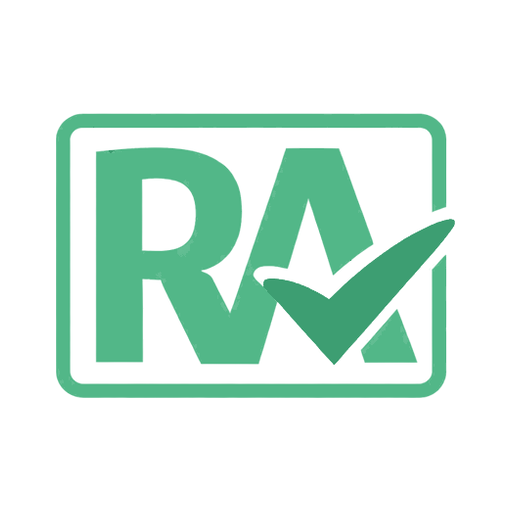
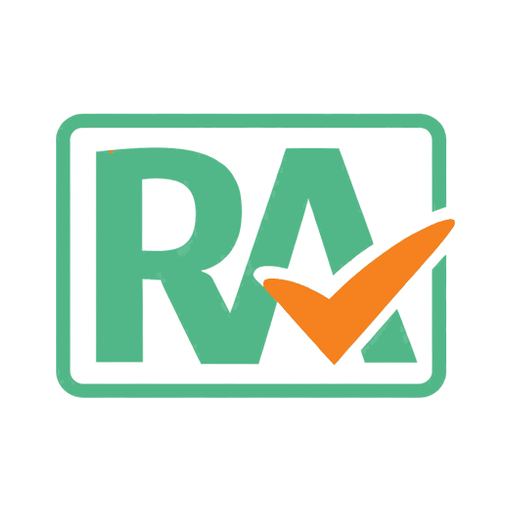
ロゴのチェックを橙 #F5811F へ（司さんが8色から選択 2026-08-29）
司さん「薄緑に合うアクセントの色を何種類かチェックに入れて見せて」
→ 8色を実際に切り出して見せ、★橙 #F5811F★を選択。

★選んだ理由（数字）★
  浮き 1.06 ＝ 重さは枠(#52B788)とほぼ同じなのに 色が違う
  ＝★目を奪わないのに 一目でチェックと分かる★（32pxでも読める）
ここまでの外し2回も make-logo.mjs の頭に残した:
  #2E7D54 浮き2.03 … 一番重い物になった（差し戻し）
  #C8ECD8 浮き1.94 … 32pxでほぼ消える
  #3D9E72 浮き1.34 … 重くはないがアクセントにならない

・#F5811F を使ってよい色の一覧に足した
  ＝★ロゴのチェックだけ・画面には広げない★と理由つきで明記。
・ロゴ・アイコン6枚・?v= を刷り直し（--check 両方一致）。
・形は1ドットも変えていない（塗り替えた元絵と違い0点）。
・見張りはそのまま緑（浮き1.5未満）。

Claude-Session: https://claude.ai/code/session_01C5aRa2uJxhXw8ECt3a9s4k

Changed region(s): [[0.5, 0.4062, 0.9062, 0.7188]]

diff --git a/seikyu/index.html b/seikyu/index.html
@@ -9,9 +9,9 @@
 <meta name="apple-mobile-web-app-status-bar-style" content="default">
 <link rel="manifest" href="manifest.json">
 <!-- ★iOSは manifest を見ない＝ここで渡す（透明を持たないPNG＝黒く塗られない）★ -->
-<link rel="apple-touch-icon" href="../img/apple-touch-icon-180.png?v=b196480a">
-<link rel="icon" type="image/png" sizes="32x32" href="../img/favicon-32.png?v=691705d6">
-<link rel="icon" type="image/png" sizes="16x16" href="../img/favicon-16.png?v=b50da9f3">
+<link rel="apple-touch-icon" href="../img/apple-touch-icon-180.png?v=4a3f6c58">
+<link rel="icon" type="image/png" sizes="32x32" href="../img/favicon-32.png?v=aae8b2a3">
+<link rel="icon" type="image/png" sizes="16x16" href="../img/favicon-16.png?v=c6856bdb">
 <link rel="preconnect" href="https://fonts.googleapis.com">
 <link href="https://fonts.googleapis.com/css2?family=DM+Mono:wght@500&family=Noto+Sans+JP:wght@400;500;700&display=swap" rel="stylesheet">
 <!-- ★見た目の本体はスイート共通の皮。請求書の app.css は差分だけ（読む順は皮が先） -->

diff --git a/kyuyo/index.html b/kyuyo/index.html
@@ -11,9 +11,9 @@
 <meta name="apple-mobile-web-app-status-bar-style" content="default">
 <meta name="apple-mobile-web-app-title" content="給与">
 <!-- ★iOSは manifest を見ない＝ここで渡す（透明を持たないPNG＝黒く塗られない）★ -->
-<link rel="apple-touch-icon" href="../img/apple-touch-icon-180.png?v=b196480a">
-<link rel="icon" type="image/png" sizes="32x32" href="../img/favicon-32.png?v=691705d6">
-<link rel="icon" type="image/png" sizes="16x16" href="../img/favicon-16.png?v=b50da9f3">
+<link rel="apple-touch-icon" href="../img/apple-touch-icon-180.png?v=4a3f6c58">
+<link rel="icon" type="image/png" sizes="32x32" href="../img/favicon-32.png?v=aae8b2a3">
+<link rel="icon" type="image/png" sizes="16x16" href="../img/favicon-16.png?v=c6856bdb">
 <link rel="preconnect" href="https://fonts.googleapis.com">
 <link href="https://fonts.googleapis.com/css2?family=DM+Mono:wght@500&family=Noto+Sans+JP:wght@400;500;700&display=swap" rel="stylesheet">
 <link rel="stylesheet" href="css/app.css?v=462e325f">

diff --git a/index.html b/index.html
@@ -7,9 +7,9 @@
 <title>Rakunally（ラクナリー）</title>
 <link rel="manifest" href="manifest.json">
 <!-- ★iOSは manifest を見ない＝ここで渡す（透明を持たないPNG＝黒く塗られない）★ -->
-<link rel="apple-touch-icon" href="img/apple-touch-icon-180.png?v=b196480a">
-<link rel="icon" type="image/png" sizes="32x32" href="img/favicon-32.png?v=691705d6">
-<link rel="icon" type="image/png" sizes="16x16" href="img/favicon-16.png?v=b50da9f3">
+<link rel="apple-touch-icon" href="img/apple-touch-icon-180.png?v=4a3f6c58">
+<link rel="icon" type="image/png" sizes="32x32" href="img/favicon-32.png?v=aae8b2a3">
+<link rel="icon" type="image/png" sizes="16x16" href="img/favicon-16.png?v=c6856bdb">
 <link rel="preconnect" href="https://fonts.googleapis.com">
 <link rel="preconnect" href="https://fonts.gstatic.com" crossorigin>
 <link href="https://fonts.googleapis.com/css2?family=DM+Mono:wght@500&family=Noto+Sans+JP:wght@400;700&display=swap" rel="stylesheet">

diff --git a/kyuyo/meisai.html b/kyuyo/meisai.html
@@ -14,8 +14,8 @@
      ★iOSは apple-touch-icon に SVG を使えない★ので PNG に焼いた物を渡す（今までは絵が出なかった）。
      絵は元から在ったSVGをそのまま焼いた物＝描き直していない（scripts/make-icons.mjs）。 -->
 <link rel="apple-touch-icon" href="img/meisai-180.png?v=2b5a7f40">
-<link rel="icon" type="image/png" sizes="32x32" href="../img/favicon-32.png?v=691705d6">
-<link rel="icon" type="image/png" sizes="16x16" href="../img/favicon-16.png?v=b50da9f3">
+<link rel="icon" type="image/png" sizes="32x32" href="../img/favicon-32.png?v=aae8b2a3">
+<link rel="icon" type="image/png" sizes="16x16" href="../img/favicon-16.png?v=c6856bdb">
 <!-- ★ホーム画面の絵は 本物のロゴを使う★（2026-08-19）
      前は data: の中に ★手描きの「給」SVG★ を埋めていたので、
      08-18 にロゴへ差し替えた時 ★ここだけ古い絵のまま★ 残っていた。

diff --git a/kyuyo/admin.html b/kyuyo/admin.html
@@ -12,8 +12,8 @@
 <meta name="apple-mobile-web-app-title" content="Rakunally管理">
 <!-- ★ホーム画面は「管」で見分ける（給与と並ぶので同じ絵にしない）／タブの絵は Rakunally ★ -->
 <link rel="apple-touch-icon" href="img/admin-192.png?v=268f435d">
-<link rel="icon" type="image/png" sizes="32x32" href="../img/favicon-32.png?v=691705d6">
-<link rel="icon" type="image/png" sizes="16x16" href="../img/favicon-16.png?v=b50da9f3">
+<link rel="icon" type="image/png" sizes="32x32" href="../img/favicon-32.png?v=aae8b2a3">
+<link rel="icon" type="image/png" sizes="16x16" href="../img/favicon-16.png?v=c6856bdb">
 <style>
   /* ★押す物の色は Rakunally 全画面で 1組★（司さん 2026-08-29「統一感は？」）
      --accent  … 塗る本命 #3D9E72（皮 css/rakunally-ui.css の .btn-primary と 同じ値）
